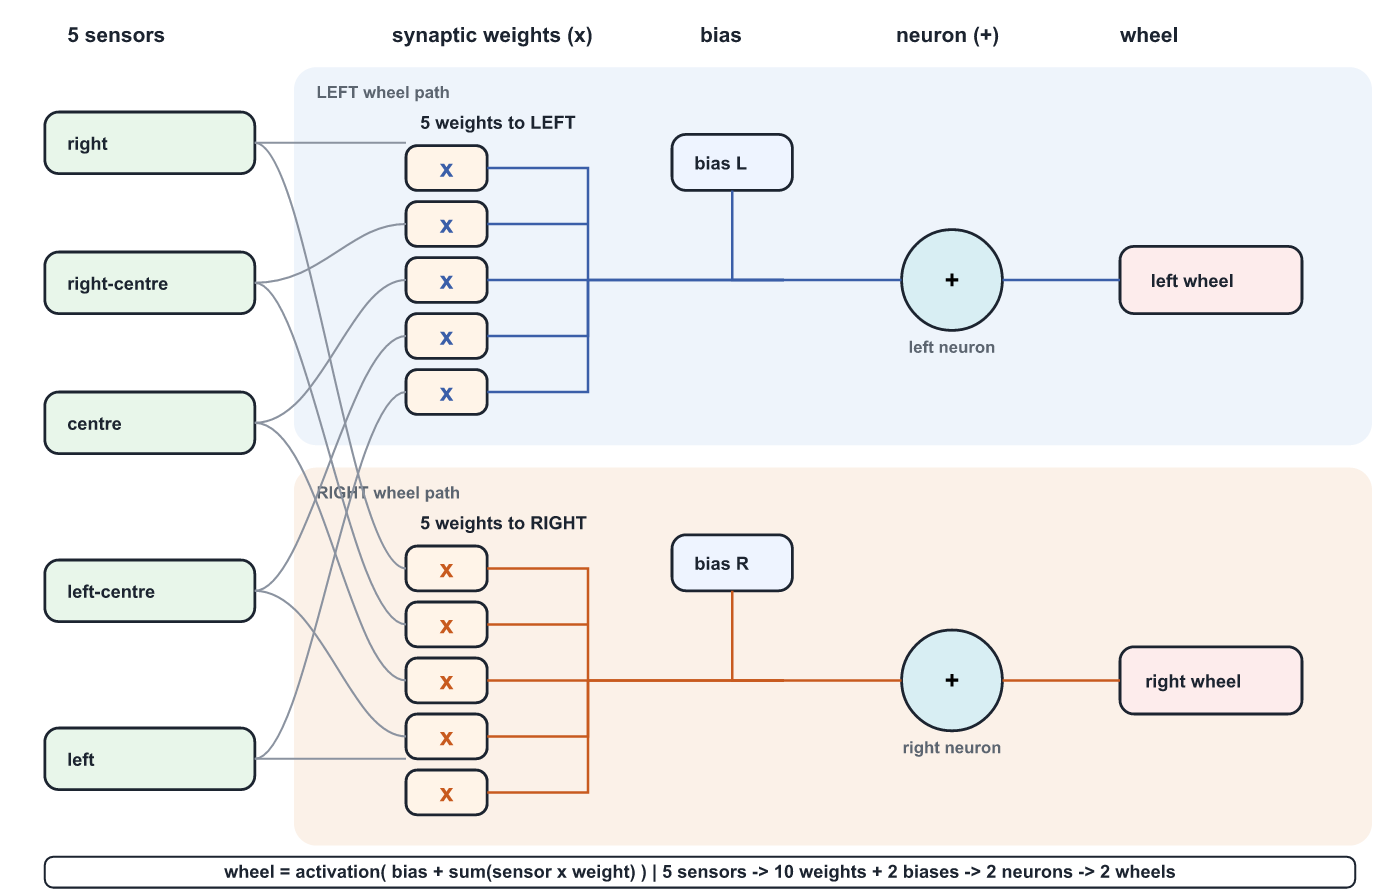
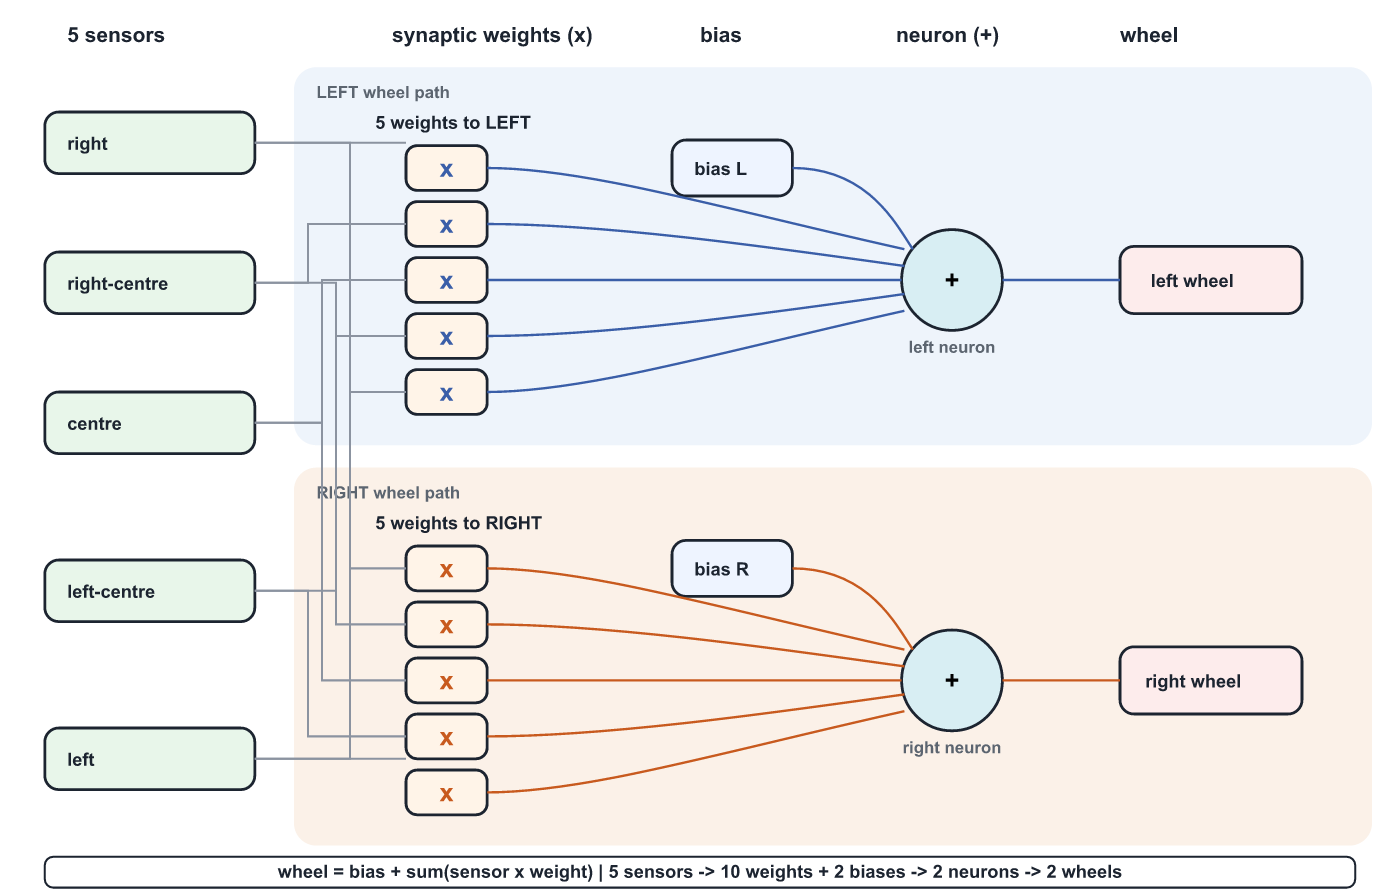
Fix teacher diagram wiring: per-weight rays into the sum.
Connect extreme sensors with clear polylines, draw separate lines from
each weight and bias into the neuron, and drop activation from the formula.

diff --git a/docs/class-plan.md b/docs/class-plan.md
@@ -240,7 +240,7 @@ Accept answers like: *“numbers that mix sensor readings into motor speeds.”*
 
 - **Younger / shorter:** stop after Sense → Multiply → one preset (Avoid). Skip bias.
 - **Older / STEM:** show the formula  
-  `wheel ≈ activation( bias + Σ weight × sensor/1000 )`  
+  `wheel ≈ bias + Σ (weight × sensor/1000)`  
   and link to the expert app: [Thymio3-ANN](https://github.com/FrancescoMondada/Thymio3-ANN).
 - **Language:** UI is EN/FR/DE/IT — match the class language in the top bar.
 
